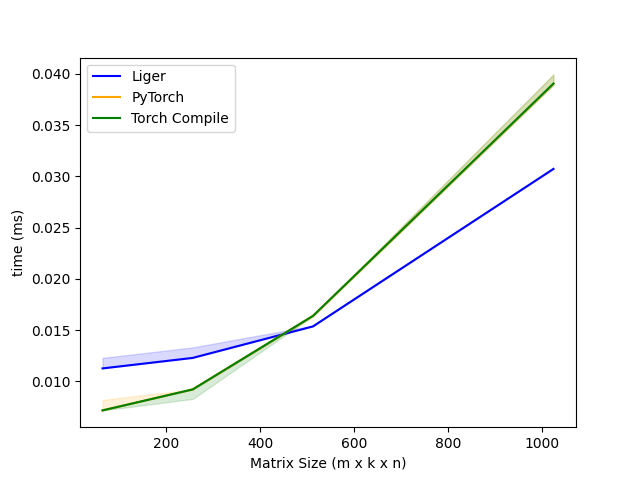
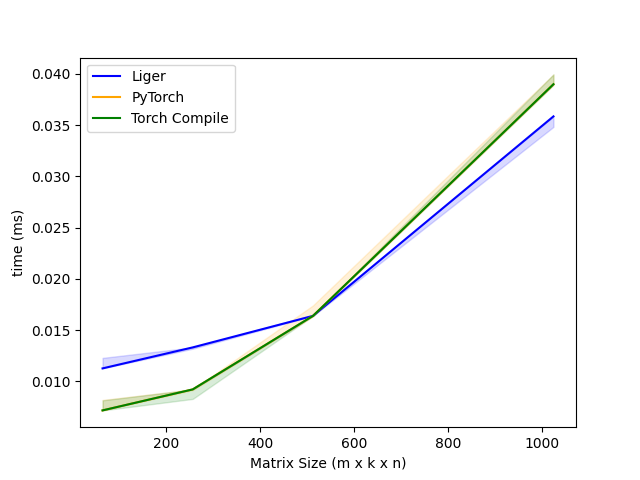
perf improvement

diff --git a/src/liger_kernel/ops/utils.py b/src/liger_kernel/ops/utils.py
@@ -41,6 +41,53 @@ def calculate_settings(n):
     return BLOCK_SIZE, num_warps
 
 
+def calculate_gemm_settings(m, n, k):
+    total_memory = torch.cuda.get_device_properties(0).total_memory
+
+    if total_memory >= 48 * 1000 * 1000 * 1000:  # >=64 GB VRAM
+        if m * n * k > 1e9:  # large matmul
+            return (
+                128,  # block_m
+                128,  # block_n
+                512,  # block_k
+                4,  # num_stages
+                8,  # num_warps
+                4,  # split_k
+                16,  # group_m
+            )
+        else:  # small-mid matmul
+            return (
+                128,  # block_m
+                128,  # block_n
+                256,  # block_k
+                3,  # num_stages
+                8,  # num_warps
+                2,  # split_k
+                8,  # group_m
+            )
+    else:  # <64 GB VRAM
+        if m * n * k > 1e9:  # large matmul
+            return (
+                64,  # block_m
+                64,  # block_n
+                128,  # block_k
+                3,  # num_stages
+                4,  # num_warps
+                2,  # split_k
+                8,  # group_m
+            )
+        else:  # small-mid matmul
+            return (
+                64,  # block_m
+                64,  # block_n
+                64,  # block_k
+                3,  # num_stages
+                4,  # num_warps
+                1,  # split_k
+                4,  # group_m
+            )
+
+
 def compare_version(package: str, operator: Callable, target: str):
     try:
         pkg = importlib.import_module(package)

diff --git a/test/transformers/test_gemm_split_k_fp8_e4m3.py b/test/transformers/test_gemm_split_k_fp8_e4m3.py
@@ -3,7 +3,9 @@ from test.utils import assert_verbose_allclose
 import pytest
 import torch
 
-from liger_kernel.ops.gemm_split_k_fp8_e4m3 import gemm_split_k
+from liger_kernel.ops.experimental.gemm_split_k_fp8_e4m3 import gemm_split_k
+
+compute_capability = torch.cuda.get_device_capability(0)
 
 
 @pytest.mark.parametrize(
@@ -13,13 +15,21 @@ from liger_kernel.ops.gemm_split_k_fp8_e4m3 import gemm_split_k
         (256, 256, 256),
         (512, 512, 512),
         (1024, 1024, 1024),
+        (64, 128, 64),
+        (256, 512, 256),
+        (512, 1024, 512),
+        (1024, 2048, 1024),
     ],
 )
 @pytest.mark.parametrize(
     "dtype, atol, rtol",
     [
-        (torch.float32, 8e-2, 8e-2),
+        (torch.float32, 2e-1, 2e-1),
     ],
+)
+@pytest.mark.skipif(
+    compute_capability not in [(8, 9), (9, 0)],
+    reason="FP8 GEMM is only supported on SM_89 and SM_90 CUDA devices.",
 )
 def test_gemm_split_k(m, k, n, dtype, atol, rtol):
     a_fp8 = torch.randn((m, k), device="cuda", dtype=dtype).to(torch.float8_e4m3fn)

diff --git a/src/liger_kernel/ops/experimental/gemm_split_k_fp8_e4m3.py b/src/liger_kernel/ops/experimental/gemm_split_k_fp8_e4m3.py
@@ -6,7 +6,7 @@ import torch
 import triton
 import triton.language as tl
 
-from liger_kernel.ops.utils import ensure_contiguous
+from liger_kernel.ops.utils import calculate_gemm_settings, ensure_contiguous
 
 if torch.cuda.is_available():
     device = torch.cuda.current_device()
@@ -124,13 +124,9 @@ class LigerFP8GemmSplitKFunction(torch.autograd.Function):
         m, k = a.shape
         _, n = b.shape
 
-        block_m = 64
-        block_n = 64
-        block_k = 64
-        num_stages = 3
-        num_warps = 4
-        split_k = 2
-        group_m = 8
+        block_m, block_n, block_k, num_stages, num_warps, split_k, group_m = (
+            calculate_gemm_settings(m, n, k)
+        )
 
         total_blocks_m = triton.cdiv(m, block_m)
         total_blocks_n = triton.cdiv(n, block_n)

diff --git a/benchmark/benchmark_gemm_split_k_fp8_e4m3.py b/benchmark/benchmark_gemm_split_k_fp8_e4m3.py
@@ -4,7 +4,7 @@ import torch
 import triton
 from utils import _print_speed_banner, _test_memory, get_current_file_directory
 
-from liger_kernel.ops.gemm_split_k_fp8_e4m3 import gemm_split_k
+from liger_kernel.ops.experimental.gemm_split_k_fp8_e4m3 import gemm_split_k
 
 # enable TensorFloat32 tensor cores for better performance in benchmark
 torch.set_float32_matmul_precision("high")
